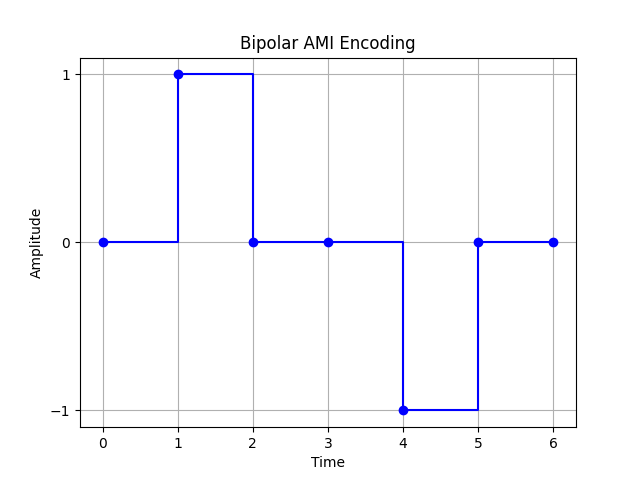
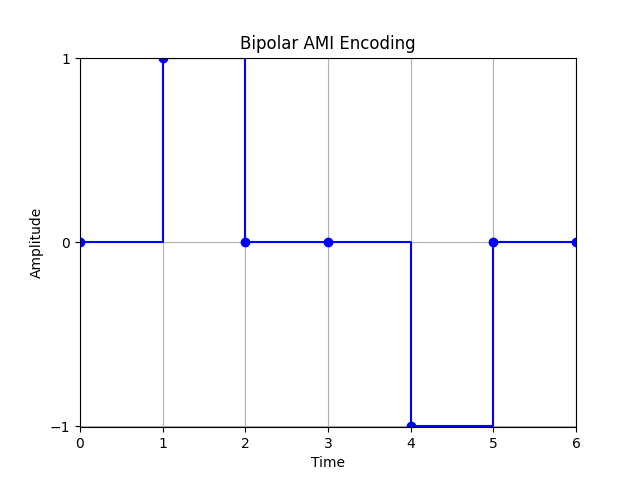
Revised Python figures and their codes

diff --git a/Lab 02/src/fig_19.py b/Lab 02/src/fig_19.py
@@ -13,22 +13,36 @@ sampled_signal = sum(np.sin(2 * np.pi * f * t_sampled) for f in frequencies)
 levels = 16
 quantized_signal = np.round(sampled_signal * (levels / 2)) / (levels / 2)
 
+# Calculate limits
+x_max = duration
+y_max = max(np.max(analog_signal), np.max(sampled_signal), np.max(quantized_signal))
+y_min = min(np.min(analog_signal), np.min(sampled_signal), np.min(quantized_signal))
+
 fig, axs = plt.subplots(3, 1, figsize=(10, 8), sharex=True)
 
+# Plot Analog Signal
 axs[0].plot(t_analog, analog_signal, label='Analog Signal', color='blue')
 axs[0].set_title("Analog Signal")
 axs[0].set_ylabel("Amplitude")
+axs[0].set_xlim(0, x_max)
+axs[0].set_ylim(y_min, y_max)
 axs[0].grid(True)
 
+# Plot Sampled Signal
 axs[1].stem(t_sampled, sampled_signal, label='Sampled Signal', linefmt='orange', basefmt=" ", markerfmt="ro")
 axs[1].set_title("Sampled Signal (8000 Hz)")
 axs[1].set_ylabel("Amplitude")
+axs[1].set_xlim(0, x_max)
+axs[1].set_ylim(y_min, y_max)
 axs[1].grid(True)
 
+# Plot Quantized Signal
 axs[2].step(t_sampled, quantized_signal, label='Digital Signal', where='mid', color='green')
 axs[2].set_title("Digital Signal (Quantized to 16 levels)")
 axs[2].set_xlabel("Time")
 axs[2].set_ylabel("Amplitude")
+axs[2].set_xlim(0, x_max)
+axs[2].set_ylim(y_min, y_max)
 axs[2].grid(True)
 
 plt.tight_layout()

diff --git a/Lab 02/src/fig_18.py b/Lab 02/src/fig_18.py
@@ -27,6 +27,8 @@ plt.plot(t_nyquist, sampled_nyquist, 'ro-', label='Sampled at Nyquist Rate (fs =
 plt.title('Nyquist Rate Sampling')
 plt.xlabel('Time')
 plt.ylabel('Amplitude')
+plt.xlim(0, 3)
+plt.ylim(-1.004, 1.004)
 plt.legend()
 
 plt.subplot(3, 1, 2)
@@ -35,6 +37,8 @@ plt.plot(t_oversample, sampled_oversample, 'go-', label='Sampled at Oversampling
 plt.title('Oversampling')
 plt.xlabel('Time')
 plt.ylabel('Amplitude')
+plt.xlim(0, 3)
+plt.ylim(-1.004, 1.004)
 plt.legend()
 
 plt.subplot(3, 1, 3)
@@ -43,6 +47,8 @@ plt.plot(t_undersample, sampled_undersample, 'bo-', label='Sampled at Undersampl
 plt.title('Undersampling')
 plt.xlabel('Time')
 plt.ylabel('Amplitude')
+plt.xlim(0, 3)
+plt.ylim(-1.004, 1.004)
 plt.legend()
 
 plt.tight_layout()

diff --git a/Lab 02/src/fig_5.py b/Lab 02/src/fig_5.py
@@ -3,9 +3,7 @@ import numpy as np
 
 def unipolar_line_encoding(bit_sequence):
     bits = [int(bit) for bit in bit_sequence]
-    
     time = np.arange(len(bits))
-    
     signal = np.array(bits)
     
     return time, signal
@@ -18,6 +16,8 @@ def plot_unipolar_encoding(ax, bit_sequence, title):
     ax.set_xlabel('Time')
     ax.set_ylabel('Amplitude')
     ax.set_yticks([0, 1])
+    ax.set_xlim(0, max(time))
+    ax.set_ylim(0, 1.004)
     ax.grid(True)
 
 bit_sequence1 = "10110001"

diff --git a/Lab 02/src/fig_11.py b/Lab 02/src/fig_11.py
@@ -19,6 +19,8 @@ plt.title('Average Signal Rate vs R (Mbps)')
 plt.xlabel('R (Mbps)')
 plt.ylabel('Average Signal Rate (kbaud)')
 plt.grid(True)
+plt.xlim (0, 4)
+plt.ylim(0, 2)
 
 plt.subplot(1, 2, 2)
 plt.plot(R_values, min_bandwidth, marker='o', color='orange')
@@ -26,6 +28,7 @@ plt.title('Minimum Bandwidth vs R (Mbps)')
 plt.xlabel('R (Mbps)')
 plt.ylabel('Minimum Bandwidth (kHz)')
 plt.grid(True)
-
 plt.tight_layout()
+plt.xlim (0, 4)
+plt.ylim(0, 2)
 plt.show()

diff --git a/Lab 02/src/fig_20.py b/Lab 02/src/fig_20.py
@@ -14,7 +14,8 @@ plt.xlabel('Frequency (kHz)')
 plt.ylabel('Amplitude')
 plt.title('Bandwidth and Minimum Sampling Rate for a Low-pass Signal')
 plt.legend()
-plt.text(nyquist_rate + 10, 0.5, 'Sampling Rate (2 x 200 kHz)', color='red')
 plt.text(100, 0.5, 'Signal Bandwidth (0 - 200 kHz)', color='blue')
 plt.grid(True)
+plt.xlim(0, 401)
+plt.ylim(0, 1)
 plt.show()

diff --git a/Lab 02/src/fig_12.py b/Lab 02/src/fig_12.py
@@ -21,12 +21,12 @@ for i, bit in enumerate(bit_sequence):
 
 plt.figure(figsize=(10, 4))
 plt.plot(time, signal, drawstyle='steps-post')
-
 plt.axhline(0, color='red', linestyle='--')
 
 plt.title('Polar RZ Encoding')
 plt.xlabel('Time')
 plt.ylabel('Amplitude')
 plt.grid(True)
-plt.ylim(-1.5, 1.5)
+plt.xlim(0, 5)
+plt.ylim(-1, 1.006)
 plt.show()

diff --git a/Lab 02/src/fig_17.py b/Lab 02/src/fig_17.py
@@ -23,6 +23,7 @@ plt.xlabel("Time", fontsize=12)
 plt.ylabel("Amplitude", fontsize=12)
 plt.legend(loc="upper right", fontsize=10)
 plt.grid(True)
-
 plt.tight_layout()
+plt.xlim(-0.004, 1.004)
+plt.ylim(-1.004, 1.004)
 plt.show()

diff --git a/Lab 02/src/fig_15.py b/Lab 02/src/fig_15.py
@@ -23,6 +23,8 @@ def plot_signal(bit_sequence, signal):
     plt.ylabel("Amplitude")
     plt.yticks([-1, 0, 1])
     plt.grid(True)
+    plt.xlim(0, 6)
+    plt.ylim(-1.004, 1.004)
     plt.show()
 
 bit_sequence = "0100100"

diff --git a/Lab 02/src/fig_8.py b/Lab 02/src/fig_8.py
@@ -26,6 +26,7 @@ plt.title('Polar Non-Return-to-Zero (NRZ) Line Coding Scheme')
 plt.xlabel('Time')
 plt.ylabel('Voltage')
 plt.legend()
-
 plt.grid(True)
+plt.xlim(0, 8)
+plt.ylim(-1.008, 1.008)
 plt.show()

diff --git a/Lab 02/src/fig_6.py b/Lab 02/src/fig_6.py
@@ -22,5 +22,6 @@ plt.ylabel('Extra Bits per Second')
 plt.title('Extra Bits per Second vs Receiver Clock Speed Difference')
 plt.legend()
 plt.grid(True)
-
+plt.xlim(0, 0.1)
+plt.ylim(0, 1000)
 plt.show()

diff --git a/Lab 02/src/fig_2.py b/Lab 02/src/fig_2.py
@@ -21,5 +21,6 @@ plt.title('Unipolar Line Coding')
 plt.xlabel('Time (s)')
 plt.ylabel('Amplitude')
 plt.yticks([0, 1], ['0', '1'])
-plt.grid(True)
+plt.xlim(0, 5)
+plt.ylim(0, 1)
 plt.show()

diff --git a/Lab 02/src/fig_4.py b/Lab 02/src/fig_4.py
@@ -15,4 +15,6 @@ plt.ylabel('S (baud)')
 plt.grid(True)
 plt.xticks(r_values)
 plt.yticks([c * N * (1/r) for r in r_values])
+plt.xlim(0, 10)
+plt.ylim(5000, 50000)
 plt.show()
